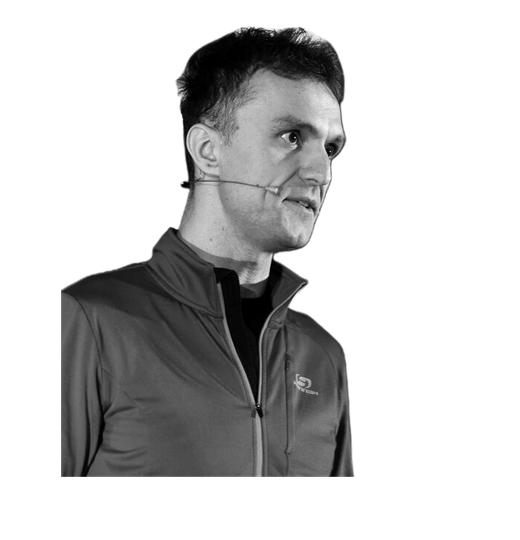
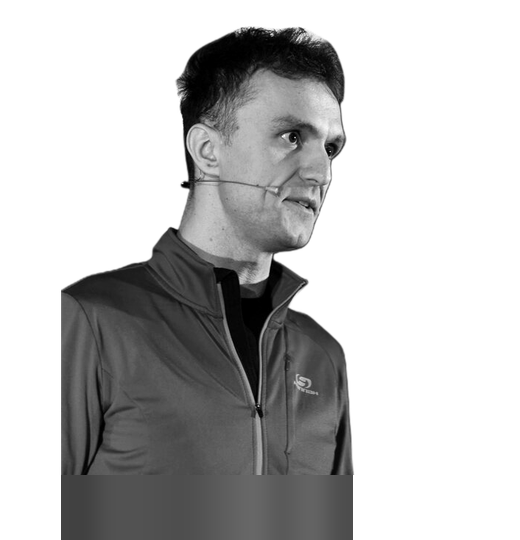
fix: no transparent band under the body in the speaker cutouts
15 of the 16 cutouts had 33-156px of transparent rows under the body
because the source photos end at the torso or neck. fill_below_body.py
extends each column of the body to the bottom edge with its own average
colour, smoothed sideways so it does not streak; image sizes are unchanged.
cutouts.py runs it on every new cutout.

Changed region(s): [[0.0923, 0.8593, 0.6769, 1.0]]

diff --git a/scripts/fill_below_body.py b/scripts/fill_below_body.py
@@ -1,0 +1,70 @@
+"""
+Fills the transparent band under a speaker cutout's body.
+
+The source photos often end at the torso or the neck, so the cutout crop
+extends past the body and leaves transparent rows at the bottom, which show as
+paper in the notch of the diamond plate. Each column of the body is extended
+straight down to the bottom edge with the average colour of its last rows,
+smoothed sideways so single columns of texture do not stretch into streaks.
+Only tones that are already in the body are used. Image size is unchanged.
+
+  python3 scripts/fill_below_body.py src/images/people/*-cutout.png   # in place
+
+Needs only pillow and numpy. cutouts.py runs it on every new cutout.
+"""
+import sys
+
+import numpy as np
+from PIL import Image
+
+# alpha above this counts as body
+SOLID = 128
+# skip the feathered last rows of the matte when picking the row to extend
+SAFE_MARGIN = 2
+# rows averaged to get each column's colour, so single noisy pixels don't streak
+SAMPLE_ROWS = 24
+# sideways smoothing of the fill colour, in pixels (Gaussian sigma)
+SMOOTH_SIGMA = 14
+
+
+def fill_below_body(path: str) -> int:
+    """Fill in place; returns how many rows were filled (0 if already full)."""
+    im = Image.open(path).convert("LA")
+    px = np.asarray(im).copy()
+    gray, alpha = px[:, :, 0], px[:, :, 1]
+    height = alpha.shape[0]
+    solid_rows = np.where(alpha.max(axis=1) > SOLID)[0]
+    if len(solid_rows) == 0:
+        return 0
+    bottom = int(solid_rows.max())
+    if bottom >= height - 1:
+        return 0
+
+    edge = max(bottom - SAFE_MARGIN, 0)
+    top = max(edge - SAMPLE_ROWS + 1, 0)
+    body_columns = alpha[edge] > SOLID
+    # average colour of each column over its last rows, weighted by coverage
+    weights = alpha[top : edge + 1].astype(np.float32) / 255
+    column_gray = (gray[top : edge + 1] * weights).sum(axis=0) / np.maximum(
+        weights.sum(axis=0), 1e-6
+    )
+
+    # smooth across the body only: normalise by how much body each window covers
+    radius = int(SMOOTH_SIGMA * 3)
+    x = np.arange(-radius, radius + 1)
+    kernel = np.exp(-(x**2) / (2 * SMOOTH_SIGMA**2))
+    mask = body_columns.astype(np.float32)
+    smooth = np.convolve(column_gray * mask, kernel, mode="same") / np.maximum(
+        np.convolve(mask, kernel, mode="same"), 1e-6
+    )
+    column_gray = np.where(body_columns, smooth, 0)
+
+    px[edge + 1 :, :, 0] = np.where(body_columns, column_gray, 0).astype(np.uint8)
+    px[edge + 1 :, :, 1] = np.where(body_columns, 255, 0).astype(np.uint8)
+    Image.fromarray(px, "LA").save(path, optimize=True)
+    return height - 1 - bottom
+
+
+if __name__ == "__main__":
+    for file in sys.argv[1:]:
+        print(f"{file}: filled {fill_below_body(file)}px")

diff --git a/scripts/cutouts.py b/scripts/cutouts.py
@@ -17,6 +17,8 @@ import importlib.util
 import os
 import sys
 
+from fill_below_body import fill_below_body
+
 import numpy as np
 from PIL import Image, ImageDraw, ImageFilter
 
@@ -69,5 +71,8 @@ if __name__ == "__main__":
     for file in sys.argv[1:]:
         name = os.path.splitext(file)[0]
         current["name"] = name
-        cutout.process(file, f"{os.environ['OUT_DIR']}/{name}-cutout.png")
-        print("wrote", name)
+        out = f"{os.environ['OUT_DIR']}/{name}-cutout.png"
+        cutout.process(file, out)
+        # no transparent band under the body (see fill_below_body.py)
+        filled = fill_below_body(out)
+        print("wrote", name, f"(filled {filled}px under the body)")
